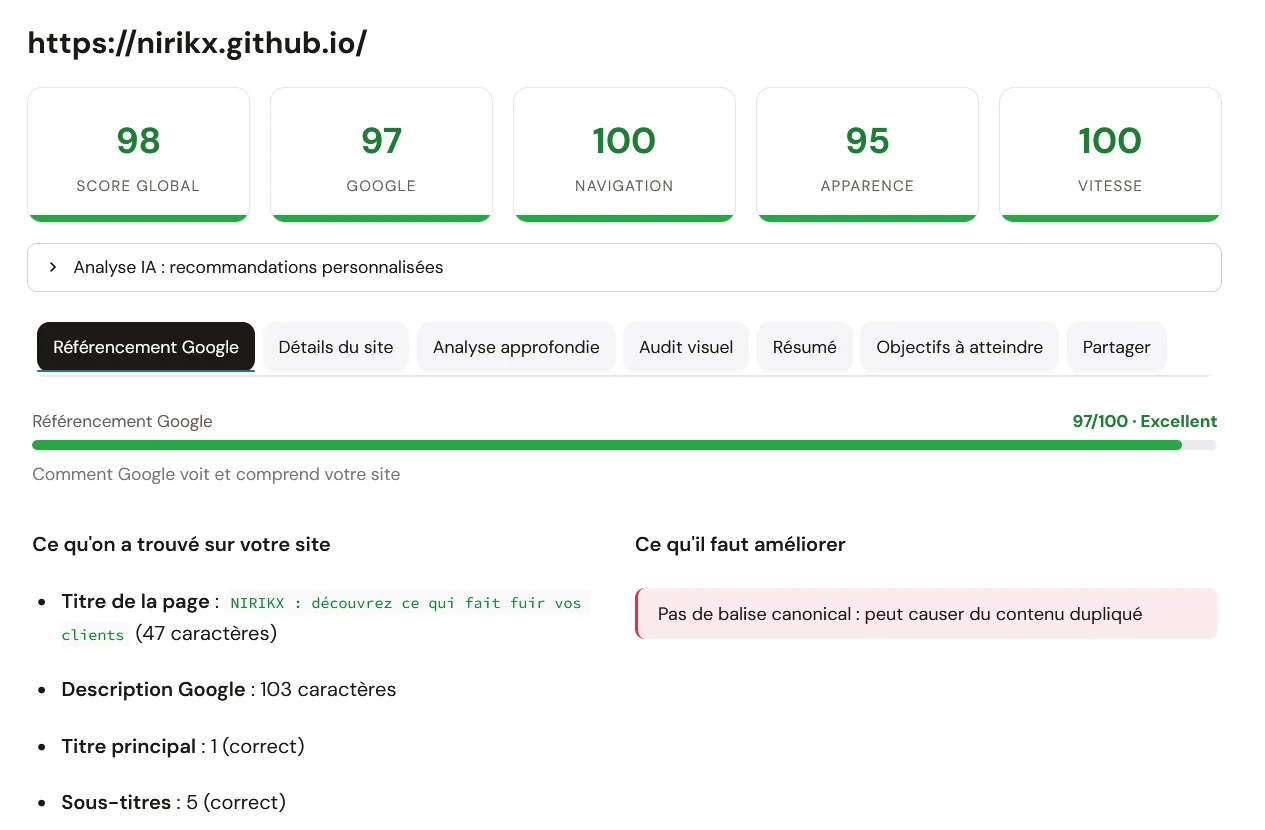
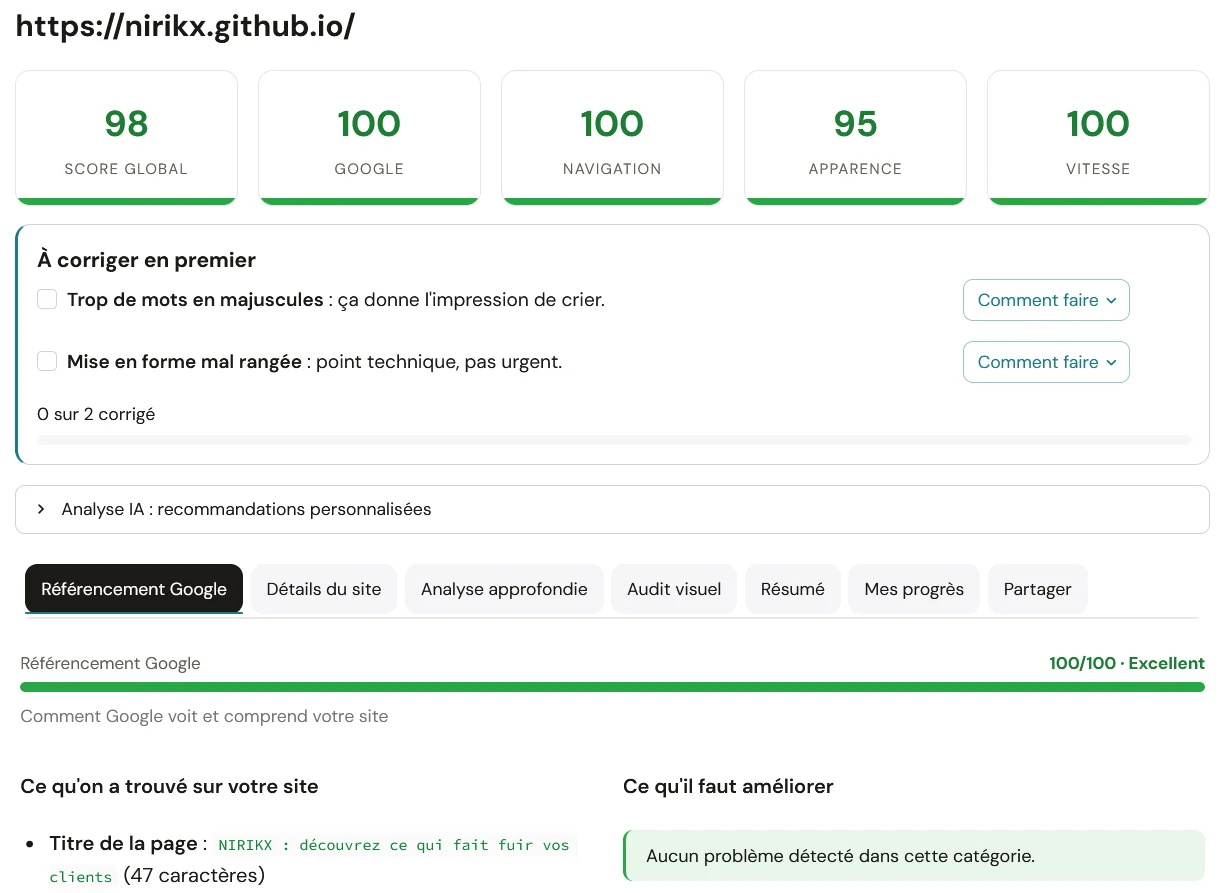
Page d'accueil : nouvelle capture de l'appli (22 octobre), en entier au clic
La capture montrait encore l'ancien onglet « Objectifs à atteindre » et
l'ancien message technique. Nouvelle capture faite par Yanis dans la vraie
appli ; au clic, l'analyse s'ouvre en entier (deux captures recollées) et
se fait défiler au lieu d'être réduite.

Claude-Session: https://claude.ai/code/session_016YCrGPUWUsjU3Uw5YTU5kJ

diff --git a/index.html b/index.html
@@ -105,9 +105,9 @@
   .vraie-analyse img { display:block; width:100%; height:auto; border:1px solid var(--border); border-radius:14px; -webkit-mask-image:linear-gradient(to bottom,#000 78%,transparent); mask-image:linear-gradient(to bottom,#000 78%,transparent); }
   .vraie-analyse figcaption { color:var(--muted); font-size:0.8rem; margin-top:0.8rem; }
   /* Capture en grand : fenetre par-dessus la page, fermee par la croix, un appui a cote ou Echap. */
-  .zoom-analyse { padding:0; border:none; background:transparent; position:fixed; inset:0; margin:auto; width:fit-content; height:fit-content; max-width:96vw; max-height:92vh; overflow:visible; }
+  .zoom-analyse { padding:0; border:none; background:transparent; position:fixed; inset:0; margin:auto; width:fit-content; height:fit-content; max-width:96vw; max-height:92vh; overflow:auto; border-radius:10px; }
   .zoom-analyse::backdrop { background:rgba(20,18,15,0.85); }
-  .zoom-analyse img { display:block; max-width:96vw; max-height:80vh; width:auto; height:auto; border-radius:10px; }
+  .zoom-analyse img { display:block; width:min(96vw, 1229px); height:auto; }
   .zoom-fermer { position:fixed; top:14px; right:14px; width:44px; height:44px; border-radius:50%; border:none; background:#ffffff; color:var(--text); display:flex; align-items:center; justify-content:center; cursor:pointer; box-shadow:0 2px 10px rgba(0,0,0,0.35); }
   .zoom-fermer svg { width:18px; height:18px; }
 
@@ -276,12 +276,12 @@
   <p class="showcase-caption">Exemple de rapport : les chiffres sont donnés à titre d'illustration.</p>
   <figure class="vraie-analyse">
     <h3 class="vraie-analyse-titre">Une vraie analyse, faite avec l'appli</h3>
-    <a href="vraie-analyse.webp" id="ouvrir-zoom" title="Voir la capture en grand"><img src="vraie-analyse.webp" width="1265" height="830" loading="lazy" alt="Capture d'écran de l'appli NIRIKX : analyse de nirikx.github.io, score global de 98 sur 100, et ce qu'il faut améliorer."></a>
-    <figcaption>Capture d'écran de l'appli : la page d'accueil de NIRIKX analysée par NIRIKX, le 19 octobre 2026.</figcaption>
+    <a href="vraie-analyse-complete.webp" id="ouvrir-zoom" title="Voir toute l'analyse en grand"><img src="vraie-analyse.webp?v=2" width="1229" height="893" loading="lazy" alt="Capture d'écran de l'appli NIRIKX : analyse de nirikx.github.io, score global de 98 sur 100, les points à corriger en premier et l'onglet Référencement Google."></a>
+    <figcaption>Capture d'écran de l'appli : la page d'accueil de NIRIKX analysée par NIRIKX, le 22 octobre 2026. Cliquez pour la voir en entier.</figcaption>
   </figure>
   <dialog class="zoom-analyse" id="zoom-analyse" aria-label="Capture d'écran en grand">
     <button type="button" class="zoom-fermer" id="fermer-zoom" aria-label="Fermer"><svg viewBox="0 0 24 24" aria-hidden="true"><path d="M5 5 L19 19 M19 5 L5 19" stroke="currentColor" stroke-width="2.5" stroke-linecap="round"/></svg></button>
-    <img src="vraie-analyse.webp" width="1265" height="830" alt="Capture d'écran de l'appli NIRIKX en grand : analyse de nirikx.github.io.">
+    <img src="vraie-analyse-complete.webp" width="1229" height="1176" alt="Capture d'écran de l'appli NIRIKX en entier : analyse de nirikx.github.io, avec les scores, les points à corriger en premier et le détail du référencement Google.">
   </dialog>
 </section>
 
